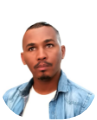
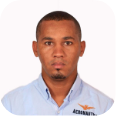
2.0.7

diff --git a/lib/screens/common/staff_screen.dart b/lib/screens/common/staff_screen.dart
@@ -20,7 +20,7 @@ class StaffPage extends StatelessWidget {
           color: primaryColor,
           borderRadius: BorderRadius.circular(10),
           border: Border.all(color: secondaryColor, width: 0.5)),
-      height: Get.height / 6,
+     
       child: Column(
         crossAxisAlignment: CrossAxisAlignment.center,
         children: [
@@ -31,21 +31,27 @@ class StaffPage extends StatelessWidget {
                 fontSize: 30, fontWeight: FontWeight.w600, color: orange),
           ),
           Row(
-            mainAxisAlignment: MainAxisAlignment.spaceEvenly,
+            mainAxisAlignment: MainAxisAlignment.end,
             children: [
-              new Text(
-                'عبد اللطيف أوسعيد',
-                textDirection: TextDirection.rtl,
-                style: TextStyle(
-                    fontSize: 20,
-                    fontWeight: FontWeight.w600,
-                    color: fontColor),
+              Padding(
+                padding: const EdgeInsets.only(right:20),
+                child: new Text(
+                  'عبد اللطيف أوسعيد',
+                  textDirection: TextDirection.rtl,
+                  style: TextStyle(
+                      fontSize: 20,
+                      fontWeight: FontWeight.w600,
+                      color: fontColor),
+                ),
               ),
-              new Image.asset(
-                'assets/images/oussaid.png',
-                height: 60,
-                width: 60,
-                fit: BoxFit.fill,
+              Padding(
+                padding: const EdgeInsets.all(8.0),
+                child: new Image.asset(
+                  'assets/images/oussaid.png',
+                  height: 60,
+                  width: 60,
+                  fit: BoxFit.fill,
+                ),
               ),
             ],
           ),
@@ -64,7 +70,7 @@ class StaffPage extends StatelessWidget {
         crossAxisAlignment: CrossAxisAlignment.center,
         children: [
           new Text(
-            'الطاقم الإداري',
+            'الطاقم التقني',
             textDirection: TextDirection.rtl,
             style: TextStyle(
                 fontSize: 30, fontWeight: FontWeight.w600, color: orange),
@@ -78,7 +84,7 @@ class StaffPage extends StatelessWidget {
                   Padding(
                     padding: const EdgeInsets.only(right: 20),
                     child: new Text(
-                      'المدير التنفيذي',
+                      'المدرب',
                       textDirection: TextDirection.rtl,
                       style: TextStyle(
                           fontSize: 20,
@@ -89,7 +95,7 @@ class StaffPage extends StatelessWidget {
                   Padding(
                     padding: const EdgeInsets.only(right: 100),
                     child: new Text(
-                      'الحسين ايت داود',
+                      'عبد الله أوسعيد',
                       textDirection: TextDirection.rtl,
                       style: TextStyle(
                           fontSize: 20,
@@ -102,7 +108,7 @@ class StaffPage extends StatelessWidget {
               Padding(
                 padding: const EdgeInsets.all(8.0),
                 child: new Image.asset(
-                  'assets/images/dawd.png',
+                  'assets/images/coach.png',
                   height: 60,
                   width: 60,
                   fit: BoxFit.fill,
@@ -119,7 +125,7 @@ class StaffPage extends StatelessWidget {
                   Padding(
                     padding: const EdgeInsets.only(right: 20),
                     child: new Text(
-                      'مسير الشؤون المالية',
+                      'مساعد المدرب',
                       textDirection: TextDirection.rtl,
                       style: TextStyle(
                           fontSize: 20,
@@ -130,7 +136,7 @@ class StaffPage extends StatelessWidget {
                   Padding(
                     padding: const EdgeInsets.only(right: 100),
                     child: new Text(
-                   '  إبراهيم أيت شعيب',
+                   'محمد أوسعيد',
                       textDirection: TextDirection.rtl,
                       style: TextStyle(
                           fontSize: 20,
@@ -143,7 +149,7 @@ class StaffPage extends StatelessWidget {
               Padding(
                 padding: const EdgeInsets.all(8.0),
                 child: new Image.asset(
-                  'assets/images/brahimaitchaib.png',
+                  'assets/images/vicecoach.png',
                   height: 60,
                   width: 60,
                   fit: BoxFit.fill,
@@ -160,7 +166,7 @@ class StaffPage extends StatelessWidget {
                   Padding(
                     padding: const EdgeInsets.only(right: 20),
                     child: new Text(
-                      'الكاتب و المنسق',
+                      'المعد البدني',
                       textDirection: TextDirection.rtl,
                       style: TextStyle(
                           fontSize: 20,
@@ -171,7 +177,7 @@ class StaffPage extends StatelessWidget {
                   Padding(
                     padding: const EdgeInsets.only(right: 100),
                     child: new Text(
-                     'عبد الله فقير',
+                     'عبد الرحيم ندحم',
                       textDirection: TextDirection.rtl,
                       style: TextStyle(
                           fontSize: 20,
@@ -184,7 +190,7 @@ class StaffPage extends StatelessWidget {
               Padding(
                 padding: const EdgeInsets.all(8.0),
                 child: new Image.asset(
-                  'assets/images/fakirabdellah.png',
+                  'assets/images/logo.png',
                   height: 60,
                   width: 60,
                   fit: BoxFit.fill,
@@ -192,47 +198,7 @@ class StaffPage extends StatelessWidget {
               ),
             ],
           ),
-          Row(
-            mainAxisAlignment: MainAxisAlignment.end,
-            children: [
-              Column(
-                crossAxisAlignment: CrossAxisAlignment.end,
-                children: [
-                  Padding(
-                    padding: const EdgeInsets.only(right: 20),
-                    child: new Text(
-                     'نائب الكاتب و المنسق ',
-                      textDirection: TextDirection.rtl,
-                      style: TextStyle(
-                          fontSize: 20,
-                          fontWeight: FontWeight.w600,
-                          color: fontColor),
-                    ),
-                  ),
-                  Padding(
-                    padding: const EdgeInsets.only(right: 100),
-                    child: new Text(
-                     'إبراهيم اعباش',
-                      textDirection: TextDirection.rtl,
-                      style: TextStyle(
-                          fontSize: 20,
-                          fontWeight: FontWeight.w600,
-                          color: accentColor),
-                    ),
-                  ),
-                ],
-              ),
-              Padding(
-                padding: const EdgeInsets.all(8.0),
-                child: new Image.asset(
-                  'assets/images/aabache.png',
-                  height: 60,
-                  width: 60,
-                  fit: BoxFit.fill,
-                ),
-              ),
-            ],
-          ),
+        
         ],
       ),
     );
@@ -248,7 +214,7 @@ class StaffPage extends StatelessWidget {
         crossAxisAlignment: CrossAxisAlignment.center,
         children: [
           new Text(
-            'الطاقم الإداري',
+            'المستشارون',
             textDirection: TextDirection.rtl,
             style: TextStyle(
                 fontSize: 30, fontWeight: FontWeight.w600, color: orange),
@@ -262,7 +228,7 @@ class StaffPage extends StatelessWidget {
                   Padding(
                     padding: const EdgeInsets.only(right: 20),
                     child: new Text(
-                      'المدير التنفيذي',
+                     'المستشار القانوني',
                       textDirection: TextDirection.rtl,
                       style: TextStyle(
                           fontSize: 20,
@@ -273,7 +239,7 @@ class StaffPage extends StatelessWidget {
                   Padding(
                     padding: const EdgeInsets.only(right: 100),
                     child: new Text(
-                      'الحسين ايت داود',
+                     'الحسن إدسعيد أوبلا',
                       textDirection: TextDirection.rtl,
                       style: TextStyle(
                           fontSize: 20,
@@ -286,7 +252,7 @@ class StaffPage extends StatelessWidget {
               Padding(
                 padding: const EdgeInsets.all(8.0),
                 child: new Image.asset(
-                  'assets/images/dawd.png',
+                  'assets/images/hassan.png',
                   height: 60,
                   width: 60,
                   fit: BoxFit.fill,
@@ -303,7 +269,7 @@ class StaffPage extends StatelessWidget {
                   Padding(
                     padding: const EdgeInsets.only(right: 20),
                     child: new Text(
-                      'مسير الشؤون المالية',
+                      'المستشار1',
                       textDirection: TextDirection.rtl,
                       style: TextStyle(
                           fontSize: 20,
@@ -314,7 +280,7 @@ class StaffPage extends StatelessWidget {
                   Padding(
                     padding: const EdgeInsets.only(right: 100),
                     child: new Text(
-                   '  إبراهيم أيت شعيب',
+                  'رشيد بن شعيب',
                       textDirection: TextDirection.rtl,
                       style: TextStyle(
                           fontSize: 20,
@@ -327,7 +293,7 @@ class StaffPage extends StatelessWidget {
               Padding(
                 padding: const EdgeInsets.all(8.0),
                 child: new Image.asset(
-                  'assets/images/brahimaitchaib.png',
+                  'assets/images/rasheed.png',
                   height: 60,
                   width: 60,
                   fit: BoxFit.fill,
@@ -344,7 +310,7 @@ class StaffPage extends StatelessWidget {
                   Padding(
                     padding: const EdgeInsets.only(right: 20),
                     child: new Text(
-                      'الكاتب و المنسق',
+                      'المستشار 2',
                       textDirection: TextDirection.rtl,
                       style: TextStyle(
                           fontSize: 20,
@@ -355,7 +321,7 @@ class StaffPage extends StatelessWidget {
                   Padding(
                     padding: const EdgeInsets.only(right: 100),
                     child: new Text(
-                     'عبد الله فقير',
+                     'لحسن إدسعيد أوبلا',
                       textDirection: TextDirection.rtl,
                       style: TextStyle(
                           fontSize: 20,
@@ -368,7 +334,7 @@ class StaffPage extends StatelessWidget {
               Padding(
                 padding: const EdgeInsets.all(8.0),
                 child: new Image.asset(
-                  'assets/images/fakirabdellah.png',
+                  'assets/images/larsen.png',
                   height: 60,
                   width: 60,
                   fit: BoxFit.fill,
@@ -385,7 +351,7 @@ class StaffPage extends StatelessWidget {
                   Padding(
                     padding: const EdgeInsets.only(right: 20),
                     child: new Text(
-                     'نائب الكاتب و المنسق ',
+                     'المستشار 3',
                       textDirection: TextDirection.rtl,
                       style: TextStyle(
                           fontSize: 20,
@@ -396,7 +362,7 @@ class StaffPage extends StatelessWidget {
                   Padding(
                     padding: const EdgeInsets.only(right: 100),
                     child: new Text(
-                     'إبراهيم اعباش',
+                     'لحسن فقير',
                       textDirection: TextDirection.rtl,
                       style: TextStyle(
                           fontSize: 20,
@@ -409,7 +375,7 @@ class StaffPage extends StatelessWidget {
               Padding(
                 padding: const EdgeInsets.all(8.0),
                 child: new Image.asset(
-                  'assets/images/aabache.png',
+                  'assets/images/lahssenfakir.png',
                   height: 60,
                   width: 60,
                   fit: BoxFit.fill,

diff --git a/lib/screens/admin_access/home_screen.dart b/lib/screens/admin_access/home_screen.dart
@@ -203,7 +203,7 @@ class HomePageState extends State<HomePage> {
       child: SizedBox(
         height: 90,
         width: 65,
-              child: Stack(
+        child: Stack(
           children: [
             Container(
               decoration: BoxDecoration(
@@ -224,14 +224,22 @@ class HomePageState extends State<HomePage> {
                           )
                         : new SquadPlayer();
                 },
+                onWillAccept: (data) {
+                  return true;
+              
+                },
+                onAccept: (data) {
+
+                  setState(() {
+                    isAccepted=true;
+                  });
+                },
               ),
             ),
-             Container(
-
-              child: Draggable(
-                childWhenDragging: Container(
-                
-                ),
+            Container(
+              child: Draggable<Player>(
+                data: playerCandidate,
+                childWhenDragging: Container(),
                 feedback: playerCandidate != null
                     ? new SquadPlayer(
                         squadPlayer: playerCandidate,
